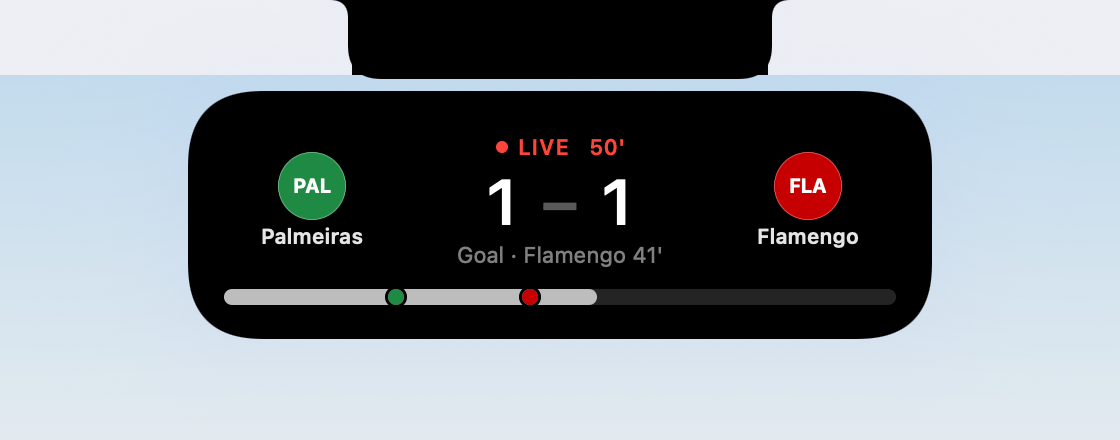
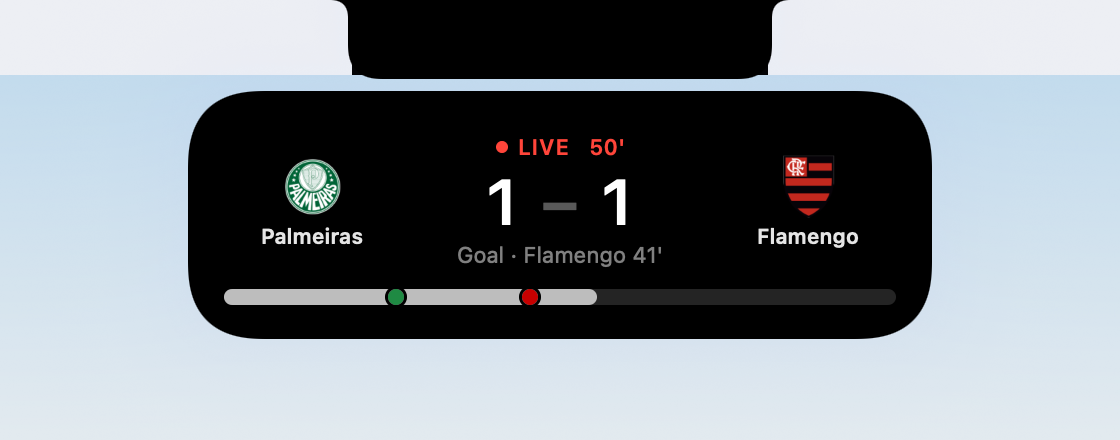
Real crests in the sports screenshot; support button under the demo

Changed region(s): [[0.6875, 0.325, 0.75, 0.5023], [0.25, 0.325, 0.3125, 0.5023]]

diff --git a/Sources/LiquidNotch/Snapshot/SnapshotRunner.swift b/Sources/LiquidNotch/Snapshot/SnapshotRunner.swift
@@ -15,7 +15,18 @@ enum SnapshotRunner {
     static let scale = 2.0
 
     static func run(outputDirectory: String) {
-        CrestStore.shared.offline = true   // stills never touch the network: crests are badges unless cached
+        // Stills never touch the network (crests are badges unless cached), except README stills (`LN_SNAP_README=1`):
+        // those fetch the sample teams' real crests first, as the app does at runtime.
+        let readme = ProcessInfo.processInfo.environment["LN_SNAP_README"] != nil
+        CrestStore.shared.offline = !readme
+        if readme {
+            let teams = [FootballSamples.palmeiras, FootballSamples.flamengo, FootballSamples.barcelona, FootballSamples.atletico]
+            for t in teams { _ = CrestStore.shared.image(t) }
+            let until = Date().addingTimeInterval(6)
+            while Date() < until, teams.contains(where: { CrestStore.shared.images[$0.key] == nil }) {
+                RunLoop.main.run(until: Date().addingTimeInterval(0.1))
+            }
+        }
         let dir = URL(fileURLWithPath: outputDirectory, isDirectory: true)
         try? FileManager.default.createDirectory(at: dir, withIntermediateDirectories: true)
 

diff --git a/README.md b/README.md
@@ -16,6 +16,11 @@ A liquid shape that pours, stretches and splits, with your album art's glow arou
 <p align="center"><img src=".github/media/demo.gif" width="100%" alt="Liquid Notch: the tools and a timer, music, lyrics, Ask, recording, a call, AirPods, a YouTube video in the island and in picture in picture, a Claude Code approval, the lock screen"></p>
 <p align="center"><sub>The full demo, in 60 fps: <a href="../../releases/latest">demo.mp4 on the release page</a>.</sub></p>
 
+<p align="center">
+  <a href="https://www.paypal.com/ncp/payment/8ZCX7UBTXTXXN"><img src="https://img.shields.io/badge/☕_Buy_me_a_coffee-PayPal-0070BA?style=for-the-badge&logo=paypal&logoColor=white" height="36" alt="Buy me a coffee"></a><br>
+  <sub>Liquid Notch is free and open source. If it makes your notch nicer, a coffee keeps it going.</sub>
+</p>
+
 <table>
   <tr>
     <td width="50%"><img src=".github/media/player.png" alt="The player card"><br><b>The player.</b> Seek, skip, AirPlay. Hover the ears for a quick preview.</td>
